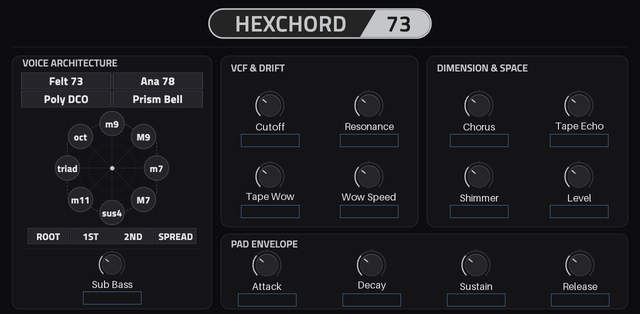
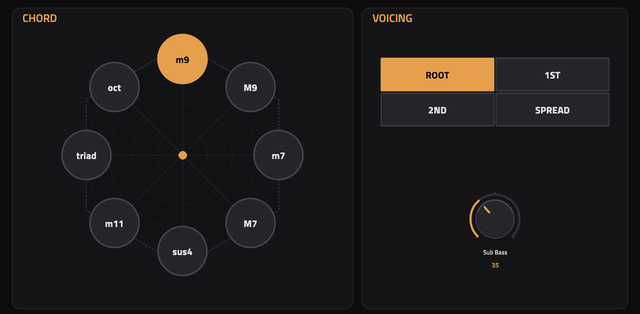
Update HexChord thumbnail with Poly Chord page

diff --git a/Instruments/HexaChord-73/README.md b/Instruments/HexaChord-73/README.md
@@ -4,7 +4,7 @@
 [![GPLv3 license](https://img.shields.io/badge/License-GPLv3-blue.svg)](LICENSE)
 [![Download 1.0.0](https://img.shields.io/badge/Download-1.0.0-brightgreen?logo=github)](https://github.com/Eurikon/mpc-vst-plugins/releases/download/hexachord-73-v1.0.0/HexChord-73-1.0.0-mpc-armv7.zip)
 
-![HexChord 73 Perform page](../../media/hexachord-73.png)
+![HexChord 73 Chord page](../../media/hexachord-73.png)
 
 HexChord 73 is a stereo chord synthesizer for MPC standalone.<br>
 Play one note to trigger a four-tone chord, with four overlapping chord slots and release tails.<br>
